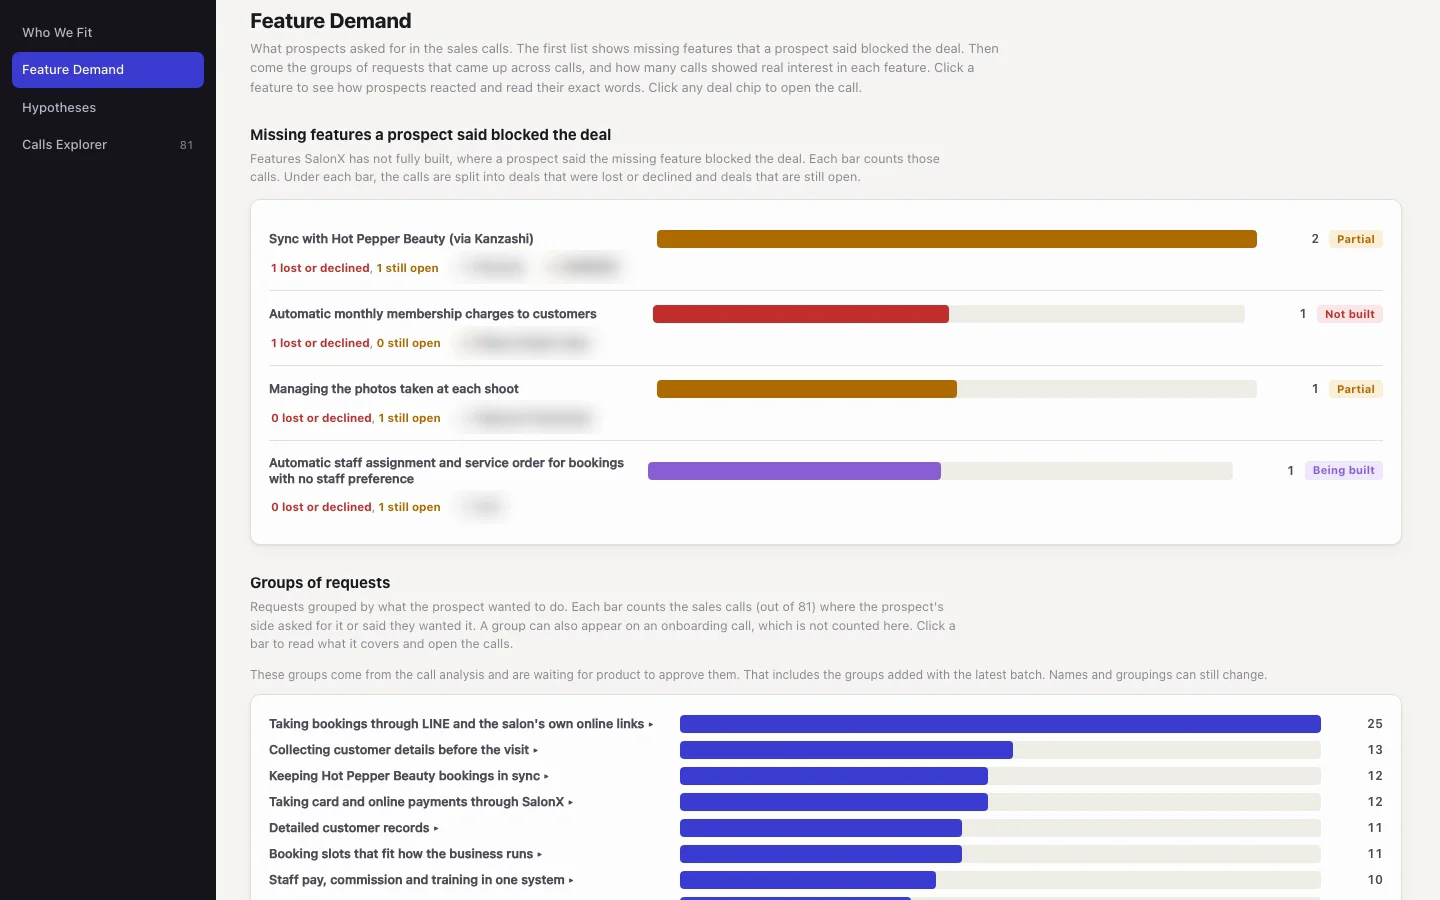
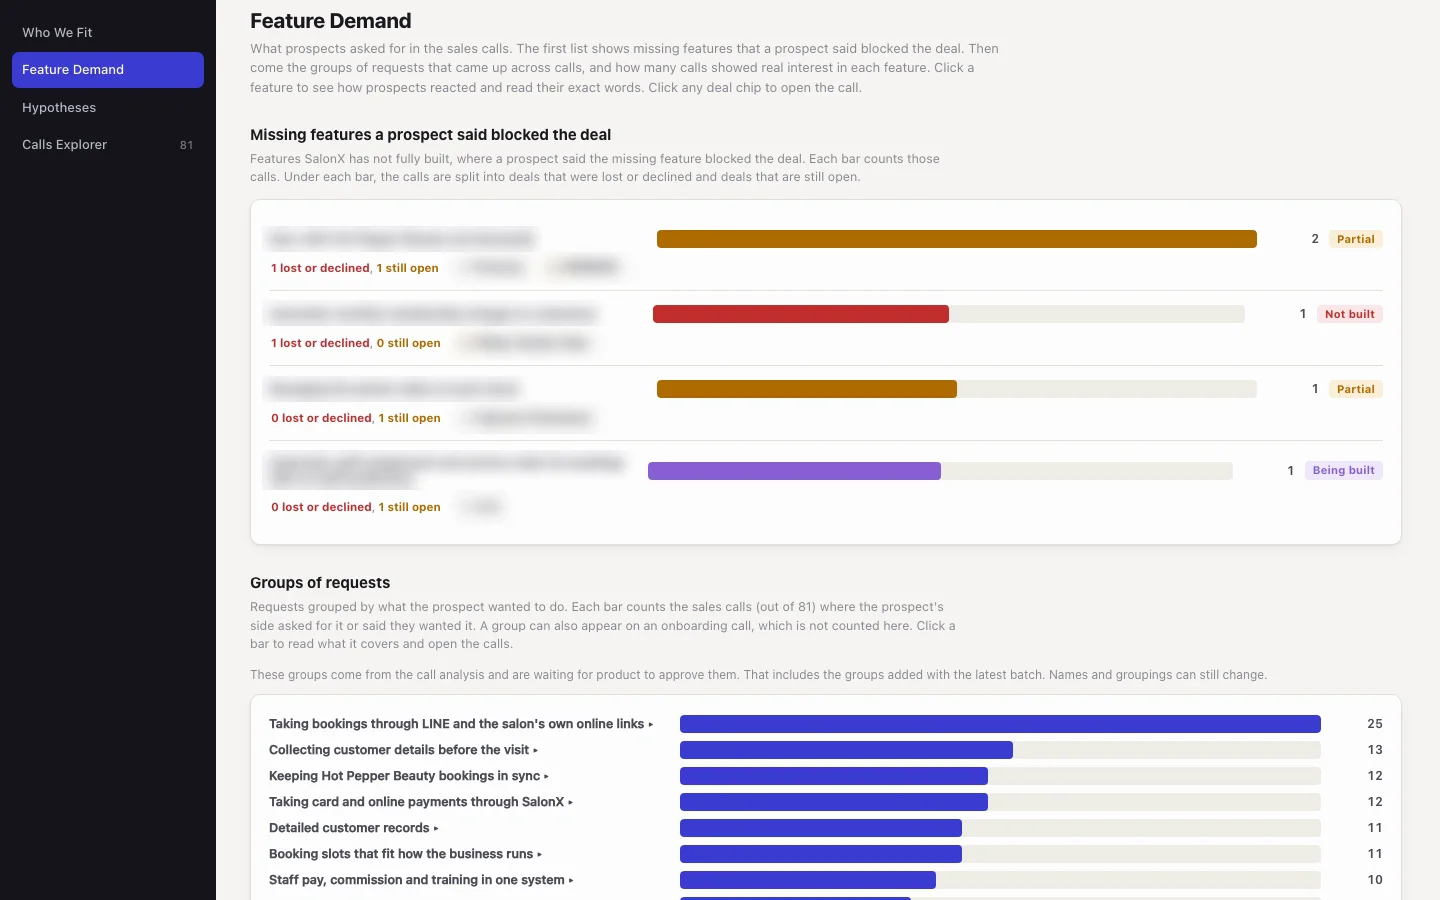
fix: blur missing-feature names on the feature demand screenshot

diff --git a/index.html b/index.html
@@ -201,8 +201,8 @@
           <figcaption>Overview charts. Feature names blurred.</figcaption>
         </figure>
         <figure class="shot" data-label="Feature demand">
-          <img src="/assets/shots/insights-demand.webp" width="1440" height="900" alt="Feature Demand page: missing features that prospects said blocked a deal, with prospect names blurred, above requests grouped by what prospects wanted." loading="lazy">
-          <figcaption>Feature Demand page. Prospect names blurred.</figcaption>
+          <img src="/assets/shots/insights-demand.webp" width="1440" height="900" alt="Feature Demand page: missing features that prospects said blocked a deal, with feature and prospect names blurred, above requests grouped by what prospects wanted." loading="lazy">
+          <figcaption>Feature Demand page. Feature and prospect names blurred.</figcaption>
         </figure>
         <figure class="shot" data-label="One call">
           <img src="/assets/shots/insights-call.webp" width="2200" height="2292" alt="The analysis of a single won sales call: a summary, the outcome, the reasons the prospect gave with quotes from the transcript, and points for sales to confirm. The business name, location and all amounts are blurred." loading="lazy">
